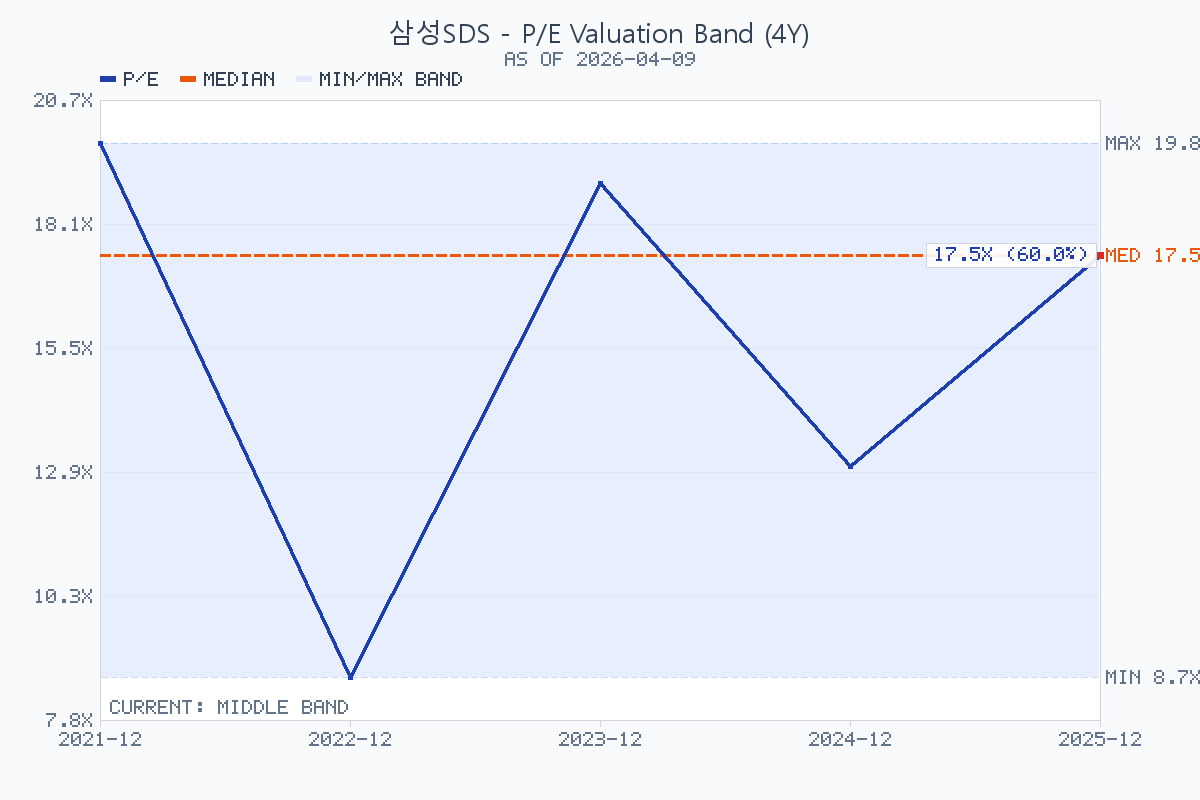
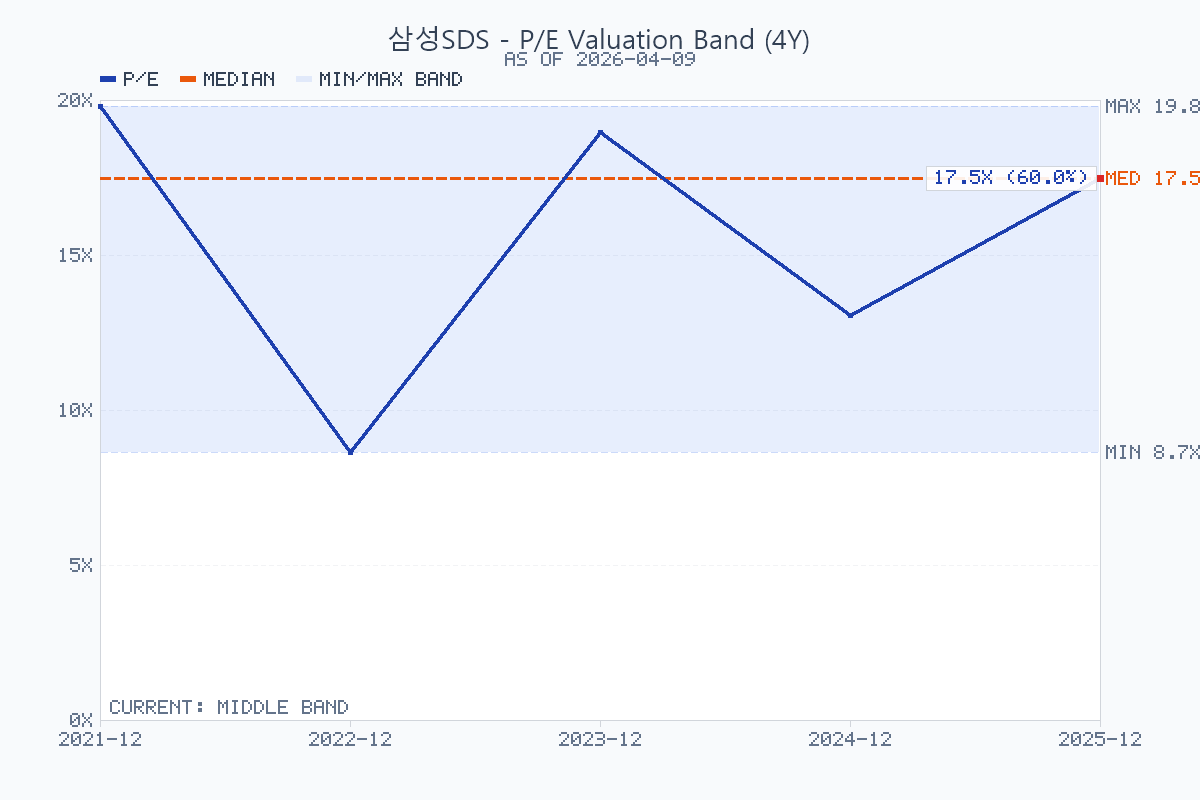
Adjust valuation chart axis scaling

diff --git a/skills/kr-stock-analysis/scripts/valuation-chart.js b/skills/kr-stock-analysis/scripts/valuation-chart.js
@@ -538,6 +538,78 @@ function valueToY(value, minValue, maxValue, top, height) {
   return top + ((maxValue - value) / (maxValue - minValue)) * height;
 }
 
+const ZERO_BASELINE_AXIS_METRICS = new Set(["pe", "pbr"]);
+
+function roundToStepPrecision(value, step) {
+  const digits = countFractionDigits(step);
+  return Number(value.toFixed(digits));
+}
+
+function countFractionDigits(value) {
+  if (!Number.isFinite(value) || value <= 0) { return 0; }
+  let normalized = value;
+  let digits = 0;
+  while (digits < 6 && Math.abs(normalized - Math.round(normalized)) > 1e-8) {
+    normalized *= 10;
+    digits += 1;
+  }
+  return digits;
+}
+
+function niceStep(rawStep) {
+  if (!Number.isFinite(rawStep) || rawStep <= 0) { return 1; }
+  const exponent = Math.floor(Math.log10(rawStep));
+  const base = 10 ** exponent;
+  const normalized = rawStep / base;
+
+  if (normalized <= 1) { return 1 * base; }
+  if (normalized <= 2) { return 2 * base; }
+  if (normalized <= 5) { return 5 * base; }
+  return 10 * base;
+}
+
+function buildLinearTicks(minValue, maxValue, tickStep) {
+  const ticks = [];
+  const epsilon = tickStep / 1000;
+  for (let value = minValue; value <= maxValue + epsilon; value += tickStep) {
+    ticks.push(roundToStepPrecision(value, tickStep));
+  }
+  if (ticks.length === 0 || Math.abs(ticks[ticks.length - 1] - maxValue) > epsilon) {
+    ticks.push(roundToStepPrecision(maxValue, tickStep));
+  }
+  return ticks;
+}
+
+function computeAxisConfig(metricKey, minValue, maxValue) {
+  // PER/PBR read better when the viewer can anchor the band to zero.
+  if (ZERO_BASELINE_AXIS_METRICS.has(metricKey)) {
+    const yMin = 0;
+    const rawStep = Math.max(maxValue - yMin, 1e-6) / 5;
+    const tickStep = niceStep(rawStep);
+    const yMax = Math.max(tickStep, roundToStepPrecision(Math.ceil(maxValue / tickStep) * tickStep, tickStep));
+    return {
+      yMin,
+      yMax,
+      tickStep,
+      ticks: buildLinearTicks(yMin, yMax, tickStep),
+      labelDigits: countFractionDigits(tickStep),
+    };
+  }
+
+  const range = maxValue - minValue || 1;
+  const padding = range * 0.08;
+  const yMin = minValue - padding;
+  const yMax = maxValue + padding;
+  const tickStep = (yMax - yMin) / 5;
+  return {
+    yMin,
+    yMax,
+    tickStep,
+    ticks: buildLinearTicks(yMin, yMax, tickStep),
+    labelDigits: 1,
+  };
+}
+
 function appendSuffixToPath(targetPath, suffix) {
   const ext = path.extname(targetPath);
   if (ext) { return `${targetPath.slice(0, -ext.length)}-${suffix}${ext}`; }
@@ -572,17 +644,13 @@ function buildValuationChart(data, metricKey, label, pngPath, options) {
   const maxValue = Math.max(...values);
   const medianValue = median(values);
   const pctile = percentileRank(values, current);
+  const axis = computeAxisConfig(metricKey, minValue, maxValue);
 
   // Layout constants
   const margin = { top: 100, right: 100, bottom: 80, left: 100 };
   const plotWidth = width - margin.left - margin.right;
   const plotHeight = height - margin.top - margin.bottom;
-
-  // Value range with 8% padding
-  const range = maxValue - minValue || 1;
-  const padding = range * 0.08;
-  const yMin = minValue - padding;
-  const yMax = maxValue + padding;
+  const { yMin, yMax } = axis;
 
   // Theme
   const theme = {
@@ -628,17 +696,16 @@ function buildValuationChart(data, metricKey, label, pngPath, options) {
   legendX = drawLegendItem(buf, width, height, legendX, legendY, theme.medianLine, "Median");
   drawLegendItem(buf, width, height, legendX, legendY, theme.bandFill, "Min/Max Band");
 
-  // Y-axis ticks (5 ticks)
-  const yTickCount = 5;
-  for (let i = 0; i <= yTickCount; i += 1) {
-    const val = yMin + ((yMax - yMin) * i) / yTickCount;
+  // Y-axis ticks
+  for (let i = 0; i < axis.ticks.length; i += 1) {
+    const val = axis.ticks[i];
     const y = valueToY(val, yMin, yMax, margin.top, plotHeight);
     // Grid line
-    if (i > 0 && i < yTickCount) {
+    if (i > 0 && i < axis.ticks.length - 1) {
       drawDashedLine(buf, width, height, margin.left + 1, Math.round(y), margin.left + plotWidth - 1, Math.round(y), theme.grid, 1, 4, 4);
     }
     // Label
-    drawText(buf, width, height, margin.left - 8, Math.round(y) - 7, formatNumber(val), theme.textLight, 2, "right");
+    drawText(buf, width, height, margin.left - 8, Math.round(y) - 7, formatNumber(val, axis.labelDigits), theme.textLight, 2, "right");
   }
 
   // X-axis ticks

diff --git a/docs/valuation-chart-axis.md b/docs/valuation-chart-axis.md
@@ -1,0 +1,10 @@
+# Valuation Chart Axis Rules
+
+`skills/kr-stock-analysis/scripts/valuation-chart.js` uses different y-axis policies by metric.
+
+- `P/E` and `P/B` anchor the y-axis at `0`.
+- `P/E` and `P/B` choose a readable tick interval automatically with a `1 / 2 / 5` step progression.
+- `P/E` and `P/B` round the top of the axis up to the next tick so the highest observation does not sit on the border.
+- `EV/EBITDA` keeps the existing padded-range behavior.
+
+This keeps `P/E` and `P/B` charts visually grounded while preserving the older `EV/EBITDA` view.
